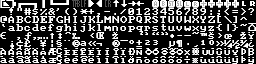
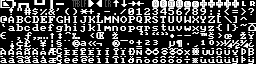
Added automatic pause selection screen

Changed region(s): [[0.0938, 0.0, 0.2188, 0.125], [0.25, 0.0, 0.2812, 0.0938]]

diff --git a/source/game/states/AutomaticPauseSelectionState/AutomaticPauseSelectionState.c b/source/game/states/AutomaticPauseSelectionState/AutomaticPauseSelectionState.c
@@ -1,0 +1,168 @@
+/* VBJaEngine: bitmap graphics engine for the Nintendo Virtual Boy
+ *
+ * Copyright (C) 2007 Jorge Eremiev
+ * jorgech3@gmail.com
+ *
+ * This program is free software; you can redistribute it and/or modify
+ * it under the terms of the GNU General Public License as published by
+ * the Free Software Foundation; either version 2 of the License, or
+ * (at your option) any later version.
+ *
+ * This program is distributed in the hope that it will be useful,
+ * but WITHOUT ANY WARRANTY; without even the implied warranty of
+ * MERCHANTABILITY or FITNESS FOR A PARTICULAR PURPOSE. See the
+ * GNU General Public License for more details.
+ *
+ * You should have received a copy of the GNU General Public License
+ * along with this program; if not, write to the Free Software
+ * Foundation, Inc., 51 Franklin Street, Fifth Floor, Boston, MA 02110-1301, USA
+ */
+
+//---------------------------------------------------------------------------------------------------------
+// 												INCLUDES
+//---------------------------------------------------------------------------------------------------------
+
+#include <string.h>
+
+#include <Game.h>
+#include <Screen.h>
+#include <Printing.h>
+#include <MessageDispatcher.h>
+#include <AutomaticPauseSelectionState.h>
+#include <stages.h>
+#include <macros.h>
+#include <I18n.h>
+#include <text.h>
+
+
+//---------------------------------------------------------------------------------------------------------
+// 												PROTOTYPES
+//---------------------------------------------------------------------------------------------------------
+
+static void AutomaticPauseSelectionState_destructor(AutomaticPauseSelectionState this);
+static void AutomaticPauseSelectionState_constructor(AutomaticPauseSelectionState this);
+static void AutomaticPauseSelectionState_enter(AutomaticPauseSelectionState this, void* owner);
+static void AutomaticPauseSelectionState_execute(AutomaticPauseSelectionState this, void* owner);
+static void AutomaticPauseSelectionState_exit(AutomaticPauseSelectionState this, void* owner);
+static bool AutomaticPauseSelectionState_handleMessage(AutomaticPauseSelectionState this, void* owner, Telegram telegram);
+static void AutomaticPauseSelectionState_renderSelection(AutomaticPauseSelectionState this);
+static void AutomaticPauseSelectionState_processInput(AutomaticPauseSelectionState this, u16 pressedKey);
+
+
+//---------------------------------------------------------------------------------------------------------
+// 											CLASS'S DEFINITION
+//---------------------------------------------------------------------------------------------------------
+
+__CLASS_DEFINITION(AutomaticPauseSelectionState);
+__SINGLETON_DYNAMIC(AutomaticPauseSelectionState);
+
+
+//---------------------------------------------------------------------------------------------------------
+// 												CLASS'S METHODS
+//---------------------------------------------------------------------------------------------------------
+
+// class's constructor
+static void AutomaticPauseSelectionState_constructor(AutomaticPauseSelectionState this)
+{
+    this->selection = true;
+
+	__CONSTRUCT_BASE(GameState);
+}
+
+// class's destructor
+static void AutomaticPauseSelectionState_destructor(AutomaticPauseSelectionState this)
+{	// destroy base
+	__SINGLETON_DESTROY(GameState);
+}
+
+// state's enter
+static void AutomaticPauseSelectionState_enter(AutomaticPauseSelectionState this, void* owner)
+{
+	GameState_loadStage((GameState)this, (StageDefinition*)&EMPTY_ST, true, true);
+
+    char* strHeader = I18n_getText(I18n_getInstance(), STR_AUTOMATIC_PAUSE);
+    u8 strHeaderXPos = (48 - strlen(strHeader)) >> 1;
+    Printing_text(Printing_getInstance(), strHeader, strHeaderXPos, 8, "GUIFont");
+
+    Printing_text(Printing_getInstance(), I18n_getText(I18n_getInstance(), STR_AUTOMATIC_PAUSE_EXPLANATION), 8, 11, NULL);
+
+    AutomaticPauseSelectionState_renderSelection(this);
+
+	Screen_FXFadeIn(Screen_getInstance(), FADE_DELAY);
+}
+
+// state's execute
+static void AutomaticPauseSelectionState_execute(AutomaticPauseSelectionState this, void* owner)
+{
+ 	// call base
+	GameState_execute((GameState)this, owner);
+}
+
+// state's exit
+static void AutomaticPauseSelectionState_exit(AutomaticPauseSelectionState this, void* owner)
+{
+	Screen_FXFadeOut(Screen_getInstance(), FADE_DELAY);
+
+	// destroy the state
+	__DELETE(this);
+}
+
+// state's on message
+static bool AutomaticPauseSelectionState_handleMessage(AutomaticPauseSelectionState this, void* owner, Telegram telegram)
+{
+	switch (Telegram_getMessage(telegram))
+	{
+		case kKeyPressed:
+		{
+            u16 pressedKey = *((u16*)Telegram_getExtraInfo(telegram));
+
+            AutomaticPauseSelectionState_processInput(AutomaticPauseSelectionState_getInstance(), pressedKey);
+        }
+        break;
+	}
+
+	return false;
+}
+
+static void AutomaticPauseSelectionState_renderSelection(AutomaticPauseSelectionState this)
+{
+    // get strings and determine lengths
+    char* strOn = I18n_getText(I18n_getInstance(), STR_ON);
+    char* strOff = I18n_getText(I18n_getInstance(), STR_OFF);
+    u8 strOnLength = strlen(strOn);
+    u8 strOffLength = strlen(strOff);
+    u8 optionsGap = 3;
+    u8 selectionStart = (48 - (strOnLength + optionsGap + strOffLength)) >> 1;
+
+    // clear options area
+    Printing_text(Printing_getInstance(), "                                                ", 0, 16, NULL);
+    Printing_text(Printing_getInstance(), "                                                ", 0, 17, NULL);
+    Printing_text(Printing_getInstance(), "                                                ", 0, 18, NULL);
+
+    // print options
+    Printing_text(Printing_getInstance(), strOn, selectionStart, 17, NULL);
+    Printing_text(Printing_getInstance(), strOff, selectionStart + 3 + strOnLength, 17, NULL);
+
+    // print selector
+    u8 optionStart = this->selection ? selectionStart - 1 : selectionStart - 1 + optionsGap + strOnLength;
+    u8 optionEnd = this->selection ? optionStart + 1 + strOnLength : optionStart + 1 + strOffLength;
+    Printing_text(Printing_getInstance(), "\x02\x07\x07\x07\x07\x07\x07\x07\x07\x07\x07\x07\x07\x07\x07\x07", optionStart, 16, NULL);
+    Printing_text(Printing_getInstance(), "\x03               ", optionEnd, 16, NULL);
+    Printing_text(Printing_getInstance(), "\x06", optionStart, 17, NULL);
+    Printing_text(Printing_getInstance(), "\x06", optionEnd, 17, NULL);
+    Printing_text(Printing_getInstance(), "\x04\x07\x07\x07\x07\x07\x07\x07\x07\x07\x07\x07\x07\x07\x07\x07", optionStart, 18, NULL);
+    Printing_text(Printing_getInstance(), "\x05               ", optionEnd, 18, NULL);
+}
+
+static void AutomaticPauseSelectionState_processInput(AutomaticPauseSelectionState this, u16 pressedKey)
+{
+	if ((pressedKey & K_LL) || (pressedKey & K_LR))
+	{
+	    this->selection = !this->selection;
+	    AutomaticPauseSelectionState_renderSelection(this);
+	}
+	else if ((pressedKey & K_A) || (pressedKey & K_STA))
+	{
+	    Game_changeState(Game_getInstance(), (State)LanguageSelectionState_getInstance());
+	}
+}

diff --git a/source/game/states/AutomaticPauseSelectionState/AutomaticPauseSelectionState.h b/source/game/states/AutomaticPauseSelectionState/AutomaticPauseSelectionState.h
@@ -1,0 +1,66 @@
+/* VBJaEngine: bitmap graphics engine for the Nintendo Virtual Boy
+ *
+ * Copyright (C) 2007 Jorge Eremiev
+ * jorgech3@gmail.com
+ *
+ * This program is free software; you can redistribute it and/or modify
+ * it under the terms of the GNU General Public License as published by
+ * the Free Software Foundation; either version 2 of the License, or
+ * (at your option) any later version.
+ *
+ * This program is distributed in the hope that it will be useful,
+ * but WITHOUT ANY WARRANTY; without even the implied warranty of
+ * MERCHANTABILITY or FITNESS FOR A PARTICULAR PURPOSE. See the
+ * GNU General Public License for more details.
+ *
+ * You should have received a copy of the GNU General Public License
+ * along with this program; if not, write to the Free Software
+ * Foundation, Inc., 51 Franklin Street, Fifth Floor, Boston, MA 02110-1301, USA
+ */
+
+#ifndef TITLE_SCREEN_STATE_H_
+#define TITLE_SCREEN_STATE_H_
+
+
+//---------------------------------------------------------------------------------------------------------
+// 												INCLUDES
+//---------------------------------------------------------------------------------------------------------
+
+#include <GameState.h>
+
+
+//---------------------------------------------------------------------------------------------------------
+// 											CLASS'S DECLARATION
+//---------------------------------------------------------------------------------------------------------
+
+// declare the virtual methods
+#define AutomaticPauseSelectionState_METHODS											\
+	GameState_METHODS;											    			\
+
+// declare the virtual methods which are redefined
+#define AutomaticPauseSelectionState_SET_VTABLE(ClassName)							\
+	GameState_SET_VTABLE(ClassName)								    			\
+	__VIRTUAL_SET(ClassName, AutomaticPauseSelectionState, enter);					\
+	__VIRTUAL_SET(ClassName, AutomaticPauseSelectionState, exit);						\
+	__VIRTUAL_SET(ClassName, AutomaticPauseSelectionState, execute);					\
+	__VIRTUAL_SET(ClassName, AutomaticPauseSelectionState, handleMessage);			\
+
+
+__CLASS(AutomaticPauseSelectionState);
+
+#define AutomaticPauseSelectionState_ATTRIBUTES							   			\
+														            			\
+	/* inherits */																\
+	GameState_ATTRIBUTES														\
+																				\
+	bool selection;																\
+
+
+//---------------------------------------------------------------------------------------------------------
+// 										PUBLIC INTERFACE
+//---------------------------------------------------------------------------------------------------------
+
+AutomaticPauseSelectionState AutomaticPauseSelectionState_getInstance(void);
+
+
+#endif

diff --git a/assets/fonts/_o/FontDefault.c b/assets/fonts/_o/FontDefault.c
@@ -7,7 +7,7 @@
 //	+ 256 tiles not compressed
 //	Total size: 4096 = 4096
 //
-//	Time-stamp: 2015-01-08, 18:52:31
+//	Time-stamp: 2015-01-10, 17:14:45
 //	Exported by Cearn's GBA Image Transmogrifier, v0.8.6
 //	( http://www.coranac.com/projects/#grit )
 //
@@ -16,10 +16,10 @@
 const unsigned int FontDefaultTiles[1024] __attribute__((aligned(4)))=
 {
 	0x000EE3FE,0x3F8E0F8E,0xFF8EFF8E,0xFFFE000E,0x0E000FFF,0xFE00FE00,0xFE03FE00,0x0F8F0E00,
-	0x00000000,0xFFE00000,0x03E0FFE0,0x03E003E0,0x00000000,0xFFFF0000,0x0000FFFF,0x00000000,
-	0x00000000,0x03FF0000,0x03E003FF,0x03E003E0,0x03E003E0,0x03E003E0,0x03E003E0,0x03E003E0,
-	0x03E003E0,0xFFE003E0,0x0000FFE0,0x00000000,0x00000000,0xFFFF0000,0x0000FFFF,0x00000000,
-	0x03E003E0,0x03FF03E0,0x000003FF,0x00000000,0x44441555,0x15444444,0x44444444,0x00001444,
+	0x00000000,0xFFE00000,0x03E0FFE0,0x03E003E0,0x00000000,0x03FF0000,0x03E003FF,0x03E003E0,
+	0x03E003E0,0xFFE003E0,0x0000FFE0,0x00000000,0x03E003E0,0x03FF03E0,0x000003FF,0x00000000,
+	0x03E003E0,0x03E003E0,0x03E003E0,0x03E003E0,0x00000000,0xFFFF0000,0x0000FFFF,0x00000000,
+	0x00000000,0x00000000,0x00000000,0x00000000,0x44441555,0x15444444,0x44444444,0x00001444,
 	0x01040504,0x05040104,0x01040104,0x00000114,0x00FE003E,0x0FFE03FE,0x00FE03FE,0x0000003E,
 	0x0FE00F80,0x0FFE0FF8,0x0FE00FF8,0x00000F80,0x11040514,0x05041104,0x11041104,0x00001114,
 	0x0FE00380,0x03803FF8,0x03800380,0x00000380,0x03800380,0x03800380,0x0FE03FF8,0x00000380,

diff --git a/source/game/states/LanguageSelectionState/LanguageSelectionState.c b/source/game/states/LanguageSelectionState/LanguageSelectionState.c
@@ -63,6 +63,7 @@ __SINGLETON_DYNAMIC(LanguageSelectionState);
 // class's constructor
 static void LanguageSelectionState_constructor(LanguageSelectionState this)
 {
+    u8 activeLanguage = I18n_getActiveLanguage(I18n_getInstance());
 	this->languageSelector = __NEW(OptionsSelector, __ARGUMENTS(1, 8, "\x10", kString));
 
 	VirtualList languageNames = __NEW(VirtualList);
@@ -70,9 +71,11 @@ static void LanguageSelectionState_constructor(LanguageSelectionState this)
 	int i = 0;
 	for (;  i < I18n_getLanguageCount(I18n_getInstance()); i++)
 	{
-		I18n_setLanguage(I18n_getInstance(), i);
+		I18n_setActiveLanguage(I18n_getInstance(), i);
 		VirtualList_pushBack(languageNames, I18n_getActiveLanguageName(I18n_getInstance()));
 	}
+
+	I18n_setActiveLanguage(I18n_getInstance(), activeLanguage);
 
     OptionsSelector_setOptions(this->languageSelector, languageNames);
 	__DELETE(languageNames);
@@ -152,7 +155,7 @@ static void LanguageSelectionState_processInput(LanguageSelectionState this, u16
 	}
 	else if (pressedKey & K_A)
 	{
-	    I18n_setLanguage(I18n_getInstance(), OptionsSelector_getSelectedOption(this->languageSelector));
+	    I18n_setActiveLanguage(I18n_getInstance(), OptionsSelector_getSelectedOption(this->languageSelector));
 	    Game_changeState(Game_getInstance(), (State)TitleScreenState_getInstance());
 	}
 }

diff --git a/assets/text/lang_en.h b/assets/text/lang_en.h
@@ -11,8 +11,20 @@ LangROMDef LANG_EN =
         // STR_PRECAUTION
         "           Important:\n\nRead Instruction and Precaution\n\n   Booklets before operating",
 
+        // STR_AUTOMATIC_PAUSE
+        "Automatic Pause",
+
+	    //STR_AUTOMATIC_PAUSE_EXPLANATION
+        "The Automatic Pause feature will\nremind you to take a break from\nplaying approx. every 30 minutes",
+
         // STR_LANGUAGE_SELECT
         "Language Selection",
+
+        // STR_ON
+        "On",
+
+        // STR_OFF
+        "Off",
 
         // STR_LEVEL
         "Level",

diff --git a/assets/text/lang_de.h b/assets/text/lang_de.h
@@ -13,8 +13,20 @@ LangROMDef LANG_DE =
         // STR_PRECAUTION
         "            Wichtig:\n\n  Lesen Sie vor dem Spielen die\n\nAnleitung und Sicherheitshinweise",
 
+        // STR_AUTOMATIC_PAUSE
+        "Automatische Pause",
+
+	    //STR_AUTOMATIC_PAUSE_EXPLANATION
+        "",
+
         // STR_LANGUAGE_SELECT
         "Sprachauswahl",
+
+        // STR_ON
+        "An",
+
+        // STR_OFF
+        "Aus",
 
         // STR_LEVEL
         "Level",

diff --git a/source/game.c b/source/game.c
@@ -43,7 +43,7 @@ int main(void)
 	// register languages
 	I18n_registerLanguage(I18n_getInstance(), &LANG_EN);
 	I18n_registerLanguage(I18n_getInstance(), &LANG_DE);
-	I18n_setLanguageByName(I18n_getInstance(), "English");
+	I18n_setActiveLanguageByName(I18n_getInstance(), "English");
 
 	// register fonts
 	Printing_registerFont(Printing_getInstance(), &PLATFORMER_DEFAULT_FONT);

diff --git a/source/game/states/SplashScreenState/SplashScreenState.c b/source/game/states/SplashScreenState/SplashScreenState.c
@@ -158,7 +158,7 @@ static bool SplashScreenState_handleMessage(SplashScreenState this, void* owner,
 				case kVbJaeScreen:
 				
 					this->currentScreen = kSplashExitScreen;
-					Game_changeState(Game_getInstance(), (State)LanguageSelectionState_getInstance());
+					Game_changeState(Game_getInstance(), (State)AutomaticPauseSelectionState_getInstance());
 					break;
 			}
 

diff --git a/assets/text/text.h b/assets/text/text.h
@@ -5,7 +5,11 @@
 enum
 {
 	STR_PRECAUTION,
+	STR_AUTOMATIC_PAUSE,
+	STR_AUTOMATIC_PAUSE_EXPLANATION,
     STR_LANGUAGE_SELECT,
+    STR_ON,
+    STR_OFF,
     STR_LEVEL,
     STR_LEVEL_1_1_NAME,
     STR_LEVEL_1_2_NAME,
